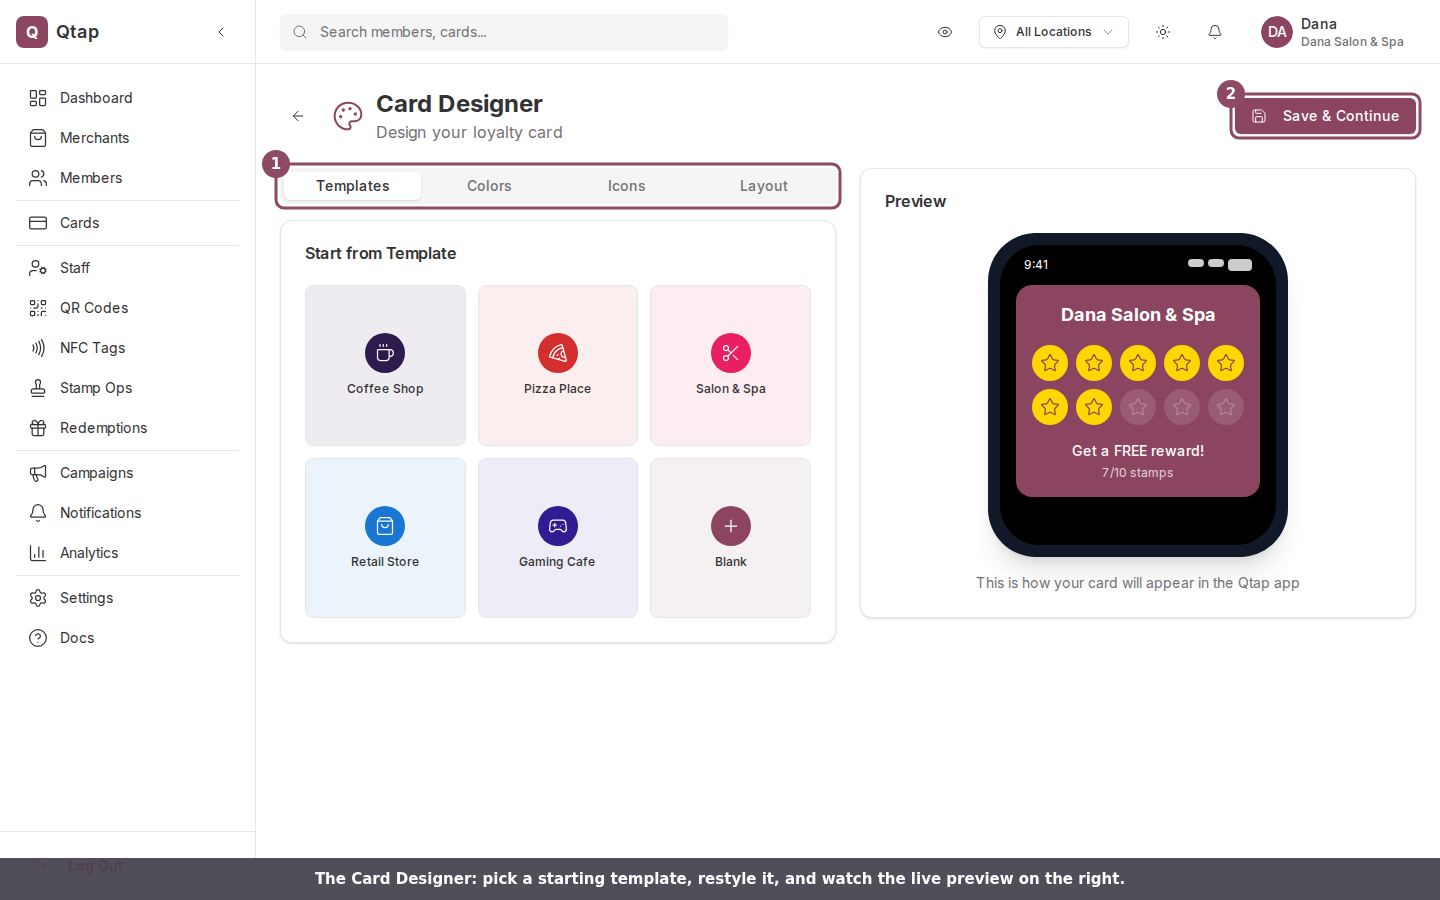
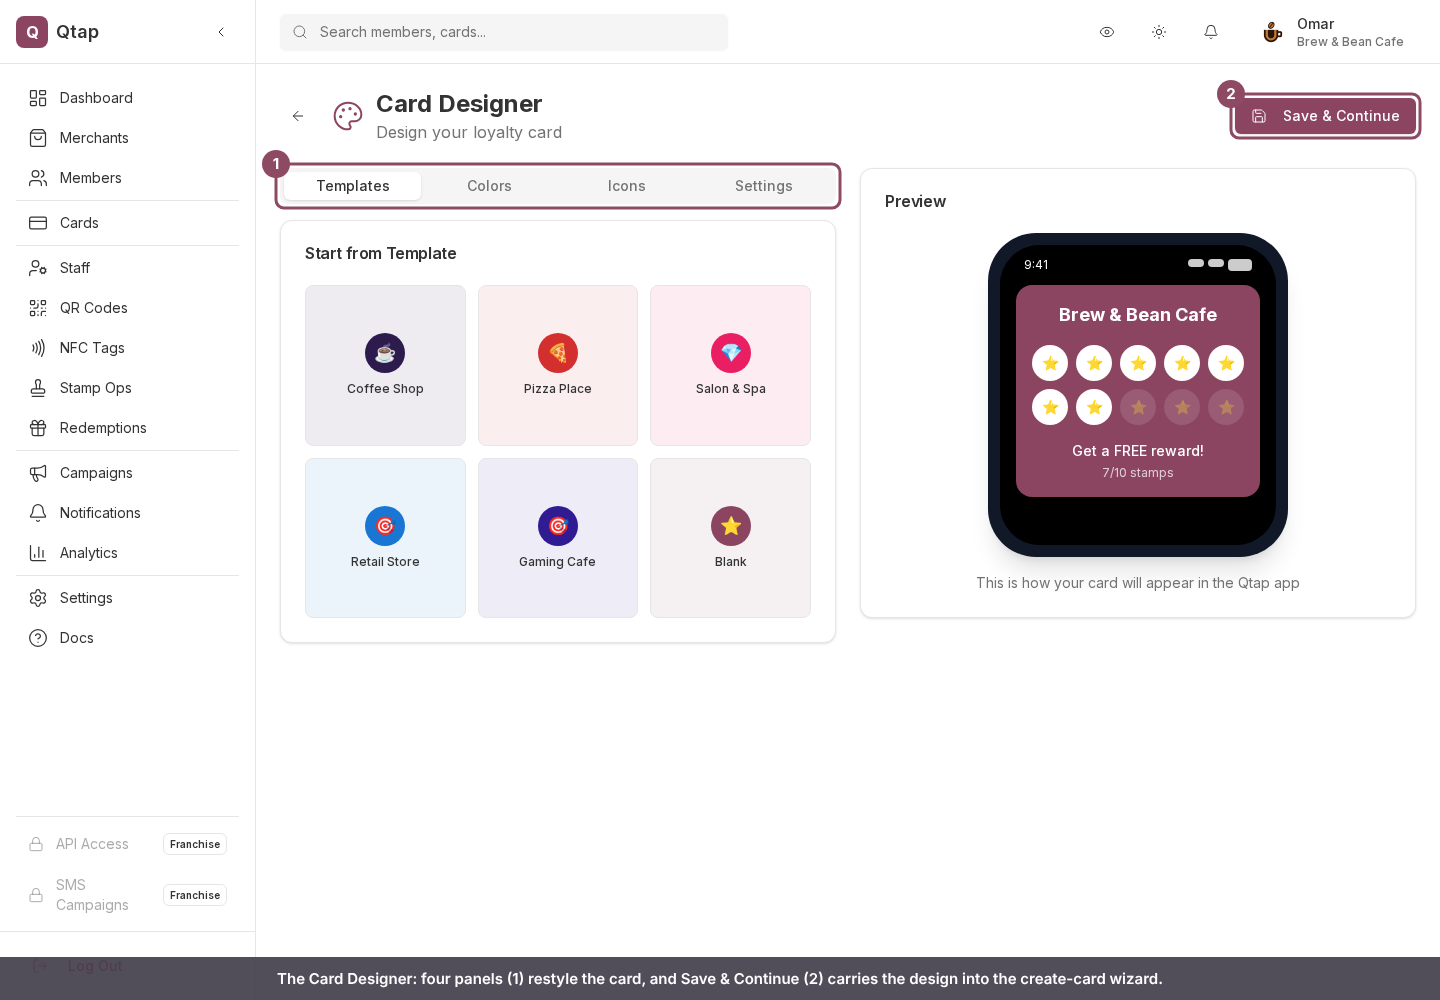
docs: the Card Designer now carries your design into the wizard
merchants/stamp-cards/card-designer.mdx went stale when qtap commit e87da9e
(2026-07-17, "real Card Designer persistence") rebuilt /cards/design. The
published article was wrong on the thing readers care about most, and on three
of its four panel sections.

Corrected, each verified in source and live on the dashboard:

- The Note saying "the design you make here does not carry into the wizard" is
  false. /cards/new reads the handed-over design on mount and applies it.
  Picking the Pizza Place template and clicking Save & Continue lands on the
  wizard with Stamps = 8, a red card and pizza stamp icons.
- The designer's Reward Text arrives as a ready-made main reward on the
  wizard's Rewards step, due when the card is full. Never documented before.
- Colors sets one "Card Color", not three (Background/Text/Accent are gone).
- The "Layout" tab is now "Settings" and holds two fields. Card Type, Stamp
  Layout and Font were removed on purpose, per types/card-design.ts.
- The Icons tab is a flat grid of twelve icons, not five named groups.

Also new: picking a template replaces edits you already made (applyTemplate
does a full replace), the handoff is one-shot and applies only to brand-new
cards, and /cards requires a stamps account, so a points owner gets Access
Denied.

Eight real annotated screenshots captured from the stamp demo account;
validate-images 8/8 OK. Nothing was created or published during capture. The
[…]

diff --git a/CLAUDE.md b/CLAUDE.md
@@ -20,6 +20,131 @@ Automated runs by the Qtap Documentation Writer agent are logged here.
 
 ---
 
+## 2026-10-12 — The Card Designer carries your design into the wizard now (correction)
+
+**Article:** `merchants/stamp-cards/card-designer.mdx` (correction + full recapture)
+**Branch:** `claude/busy-clarke-ke8xm8`
+**Status:** Done. SMOKE_OK on the first try, **no TLS bridge needed this run**; 8 real
+annotated screenshots (6 recaptured/new on the designer, 2 new on the wizard),
+validate-images 8/8 OK. One task this run: no screenshot backfill exists.
+
+### MAIN HAS CAUGHT UP — the long merge backlog is gone
+`origin/main` is now at the **PR #213 merge**, so everything from #192 to #213 has
+landed. The "main is 20+ PRs behind" note that every log since 2026-08 repeats is out of
+date. Still open and unmerged: **#186-#191** and **#214-#223**, plus the old #137, #145,
+#148, #154, #158, #163, #164, #165. I diffed all 24 open branches against `origin/main`
+before picking, which is still the only reliable way to avoid a duplicate.
+
+### PLAYWRIGHT VERSION TRAP, new numbers
+The image now ships chromium **1243** and **1194** at `/opt/pw-browsers`. A plain
+`npm install playwright` pulls **1.64**, which wants **1248**, so it fails. Pin
+`npm install playwright@1.63.0`, which maps to 1243. Running map: 1.56→1194, 1.59→1217,
+1.60→1223, 1.61→1228, 1.62→1234, **1.63→1243**, 1.64→1248. Check with
+`node -e "console.log(require('./node_modules/playwright-core/browsers.json').browsers.find(b=>b.name==='chromium').revision)"`.
+With the right pin the smoke test passed directly, with no proxy and no TLS bridge.
+
+### Task selection — the board is still trackers, duplicates and blockers
+`notion-query-data-sources` (SQL) returns ~70 non-Done rows and the shape is unchanged:
+engineering-fix trackers filed by earlier runs, verified duplicates, and rows blocked on
+an account this routine cannot reach. Backfill is still exhausted (the zero-PNG scan on
+main returns the same four non-workable files: `customer-app/settings-profile`,
+`index.mdx`, `support/faq.mdx`, and the `campaigns/analytics.mdx` stub, which open PR
+#187 still claims).
+
+**The demo-account blocker is unchanged and is still the cheapest fix on the board.**
+`QTAP_NAJMA_EMAIL` is **still** a duplicate of `QTAP_EMAIL` (`owner@goldencrust.qa`), so
+only Golden Crust (points, growth, 0 AI credits) and Brew & Bean (stamps, growth, 0
+credits) are reachable. Najma Coffee (elite, active, **77 AI credits**, 182 members) and
+Dana Salon (franchise, 84 credits) exist and are what the AI Suite, MCP/AI and
+cancel-subscription rows need. Pointing the third slot at Najma has been asked for in
+every run log since 2026-08-19.
+
+### How the gap was found
+Extracted every `DialogTitle` / `AlertDialogTitle` / `CardTitle` / `SheetTitle` string
+from `components` + `app` and grepped each against a **combined corpus** (all 127 on-main
+`.mdx` plus every `.mdx` from all 24 open PR branches, materialised with `git show`).
+That returned 33 zero-hit strings. Most were known blockers (Points Receipt, MCP/AI,
+maintenance mode, cancel subscription). **"Start from Template", "Card Settings" and
+"Stamp Icon" were the tell**: they belong to a page that already has a published
+article, which meant the article was describing a UI that no longer exists.
+
+### The finding — a published article that went stale three months ago
+qtap commit **`e87da9e` (2026-07-17, "logo asset pipeline + real Card Designer
+persistence")** rebuilt `/cards/design`. The published article (PR #141, 2026-06-13) was
+never updated, so `main` was wrong on the one thing a reader cares about:
+
+> "The design you make here does not carry into the wizard. Save & Continue opens the
+> new-card wizard, but the wizard starts fresh..."
+
+**That is false now, and I proved it live, not just in source.** Picking the Pizza Place
+template and clicking Save & Continue lands on `/cards/new` with `#stamps` = **8**, the
+preview card red (`#D32F2F`) and the stamps rendered as 🍕 — all three from the template.
+
+Four more sections were wrong, all verified live:
+| Published claim | Reality |
+|---|---|
+| Colors tab sets **three** colors (Background, Text, Accent) | **One** "Card Color" (1 `input.font-mono`), picker + 8 presets |
+| A **Layout** tab with Card Type, Stamp Layout, Font | The tab is **Settings**, CardTitle **"Card Settings"**, and it holds only Stamps to Collect + Reward Text |
+| Icons "grouped into Food & Drinks, Services, Shopping, Entertainment, Symbols" | A flat 6-column grid of the 12 `STAMP_ICONS`, CardTitle **"Stamp Icon"** |
+| (not mentioned) | The designer's **Reward Text becomes the card's main reward** |
+
+`types/card-design.ts` says the removals were deliberate: decorative options with no
+storage column and no mobile rendering (layout, accent/text color, fonts, logo position,
+tagline) were deleted. Do not re-add them to the article.
+
+### What the article now carries (all grounded)
+- `app/(dashboard)/cards/design/page.tsx` `handleSave` writes `CARD_DESIGN_STORAGE_KEY`
+  to sessionStorage, toasts **Design applied**, routes to `/cards/new`.
+- `app/(dashboard)/cards/new/page.tsx:30` reads that key **once on mount and removes
+  it**, validates the shape, and passes `designPrefill` into `StampCardWizard`.
+- `stamp-card-wizard.tsx:75` — `prefill` is `mode === 'create' && !initialData`, so a
+  design never applies to a card you are editing. It seeds `stamps_required`,
+  `card_color`, `stamp_icon`, and builds `rewards[0] = {name: reward_text,
+  reward_type: 'main', trigger_value: stamps_count}`.
+- `use-card-design.ts` `applyTemplate` does `setDesign(template.design)`, a full
+  **replace**, so picking a template wipes edits you already made. Shipped as a Warning.
+- Six templates (Coffee Shop, Pizza Place, Salon & Spa, Retail Store, Gaming Cafe,
+  Blank) and the "no sidebar or Cards-page link" line were both still correct; a grep for
+  `cards/design` across `app`/`components`/`lib` returns only two code comments.
+
+### The access rule the old article missed
+`canAccessRoute` runs `requiredLoyaltyType` **before the owner bypass**, and `/cards`
+requires `stamps`. Verified live on Golden Crust (points): the owner gets the full
+**Access Denied** page, and the sidebar reads Points in place of Cards. So the designer
+cannot be captured on the points account at all.
+
+### Screenshots (nothing was created or published)
+`.routine/flows/card-designer.json` (1440x1000, 6 steps) + the new
+`card-designer-handoff.json` (1440x1100, 2 steps), both on the **stamp** demo
+(Brew & Bean). Save & Continue only writes sessionStorage and navigates, so it is safe to
+click; **Publish Card and Save Draft were never clicked**, so no card exists. Deleted the
+stale `card-designer-layout.png` (that tab is gone; grep confirmed nothing else
+referenced it). No customer PII on any shot.
+
+### Gotchas for future runs
+- **Geometry at 1440x1000 is stable and entirely above the fold**, no scrolling or hover
+  needed: tablist `x280 y168 w556 h36`, Save & Continue `x1235 y98 w181 h36`, every
+  panel card `x280 y220 w556` (templates h423, colors h186, icons h250, settings h274),
+  preview card `x860 y168 w556 h450`.
+- Crop selectors that resolve to exactly one node:
+  `div.rounded-xl:has(div:text-is('Start from Template'))`,
+  `div.rounded-xl:has(input.font-mono)` (colors),
+  `div.rounded-xl:has(div.grid.grid-cols-6)` (icons),
+  `div.rounded-xl:has(input[placeholder='Get a FREE reward!'])` (settings),
+  `div.rounded-xl:has(div:text-is('Preview'))`,
+  `div.rounded-xl:has-text('Loyalty rewards')` (wizard rewards step).
+- **Tabs are `[role=tab]:text-is('Colors'|'Icons'|'Settings')`.** Template tiles are
+  `button:has(span:text-is('Pizza Place'))`.
+- **The wizard step indicator is NOT `button:text-is('Rewards')`** (the button wraps
+  nested nodes, so text-is resolves nothing and the click times out at 30s). Use
+  `button:has-text('Rewards')`. The four steps sit at y164, 192px apart from x280.
+- The colors picker is a Radix portal that opens **below** the card at `y361 w246 h258`,
+  so `clipTo` on the card cuts it off. An explicit `clip {x:264,y:150,width:612,height:500}`
+  catches the tabs, the card and the open picker with its 8 presets.
+- `/cards/design` needs ~9s to settle, `/cards/new` ~14s.
+- Brew & Bean renders a **Franchise** badge in the sidebar while its DB row says
+  `growth`; it has 1 active card, so `/cards/new` renders rather than the limit wall.
+
 ## 2026-09-17 — Turning off Qtap's marketing emails (the new opt-out switch)
 
 **Article:** `merchants/settings/marketing-emails.mdx` (new)
